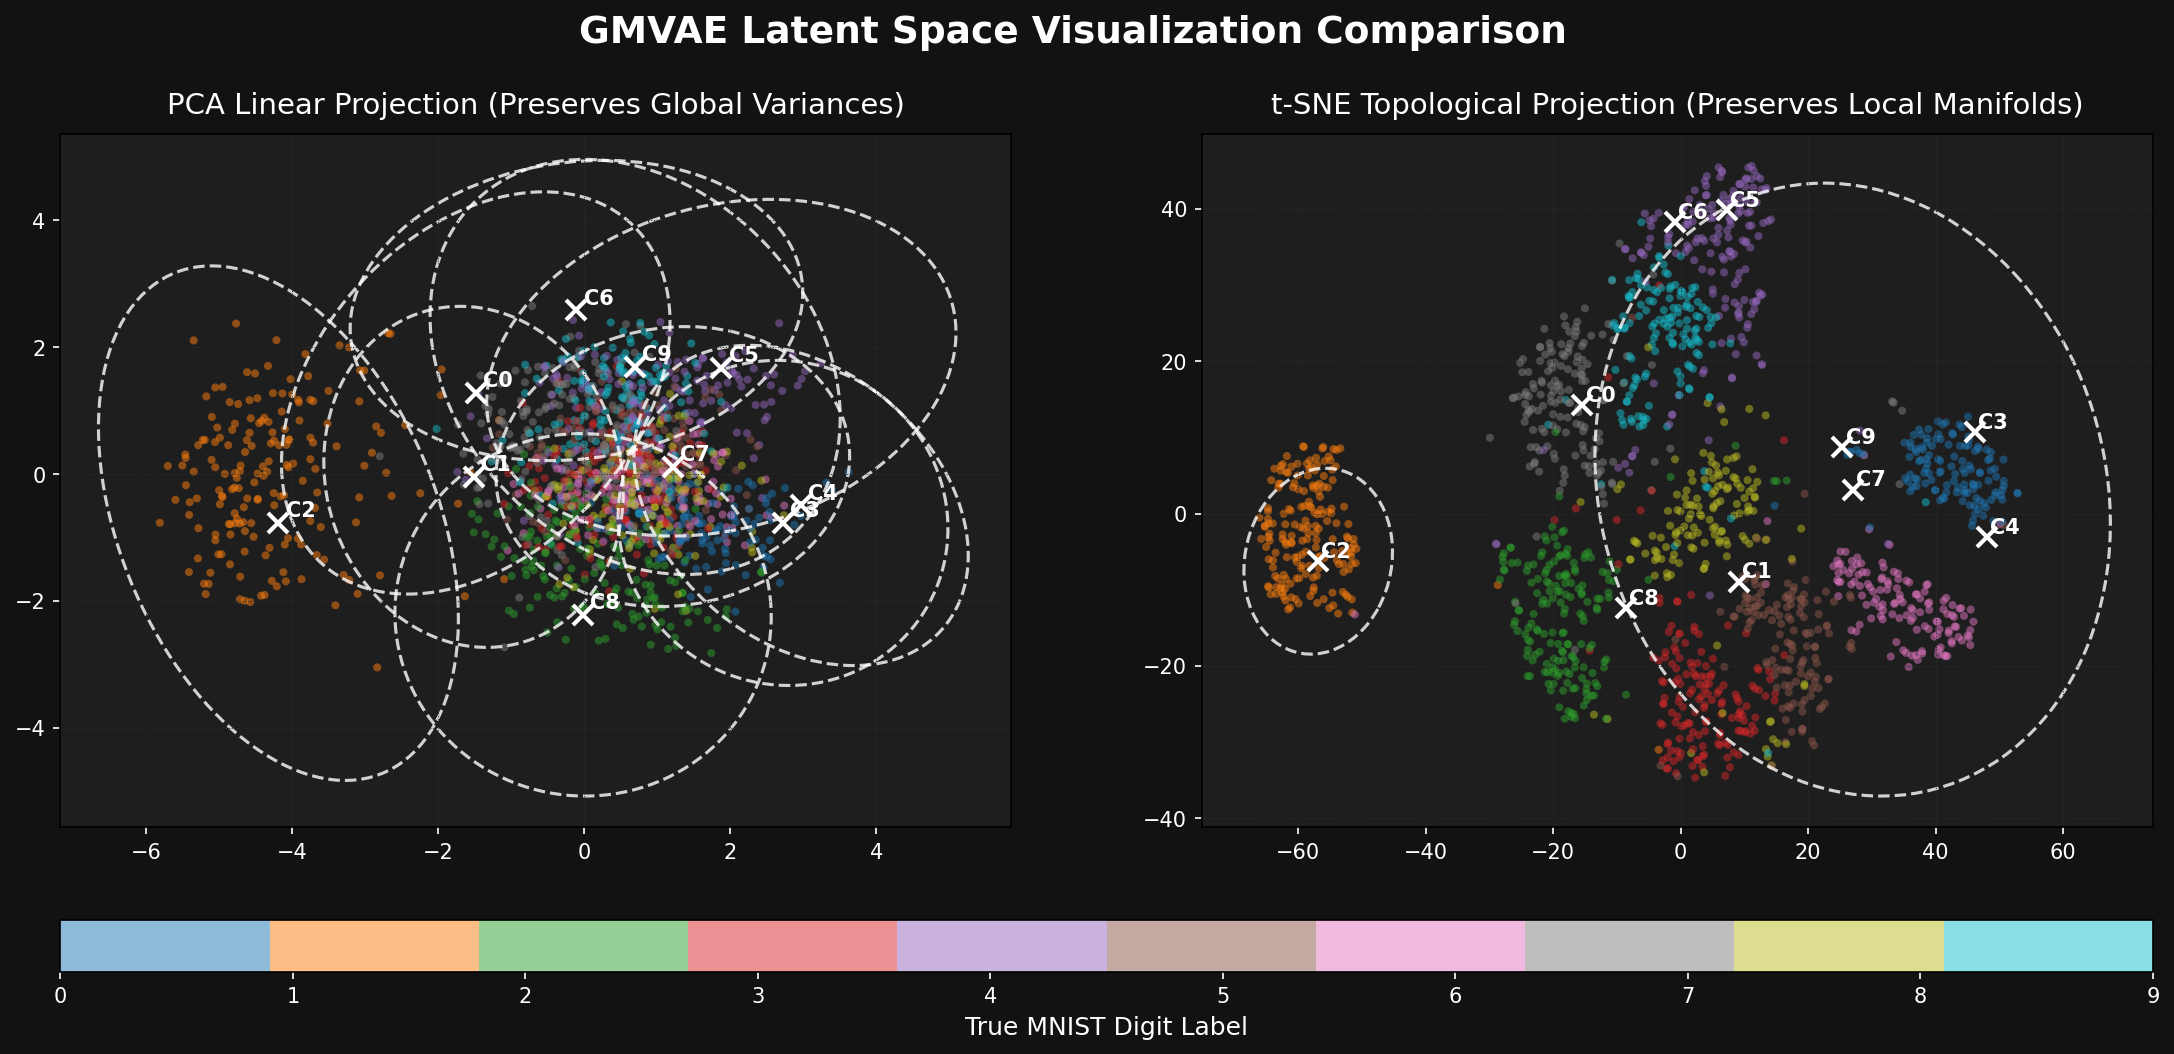
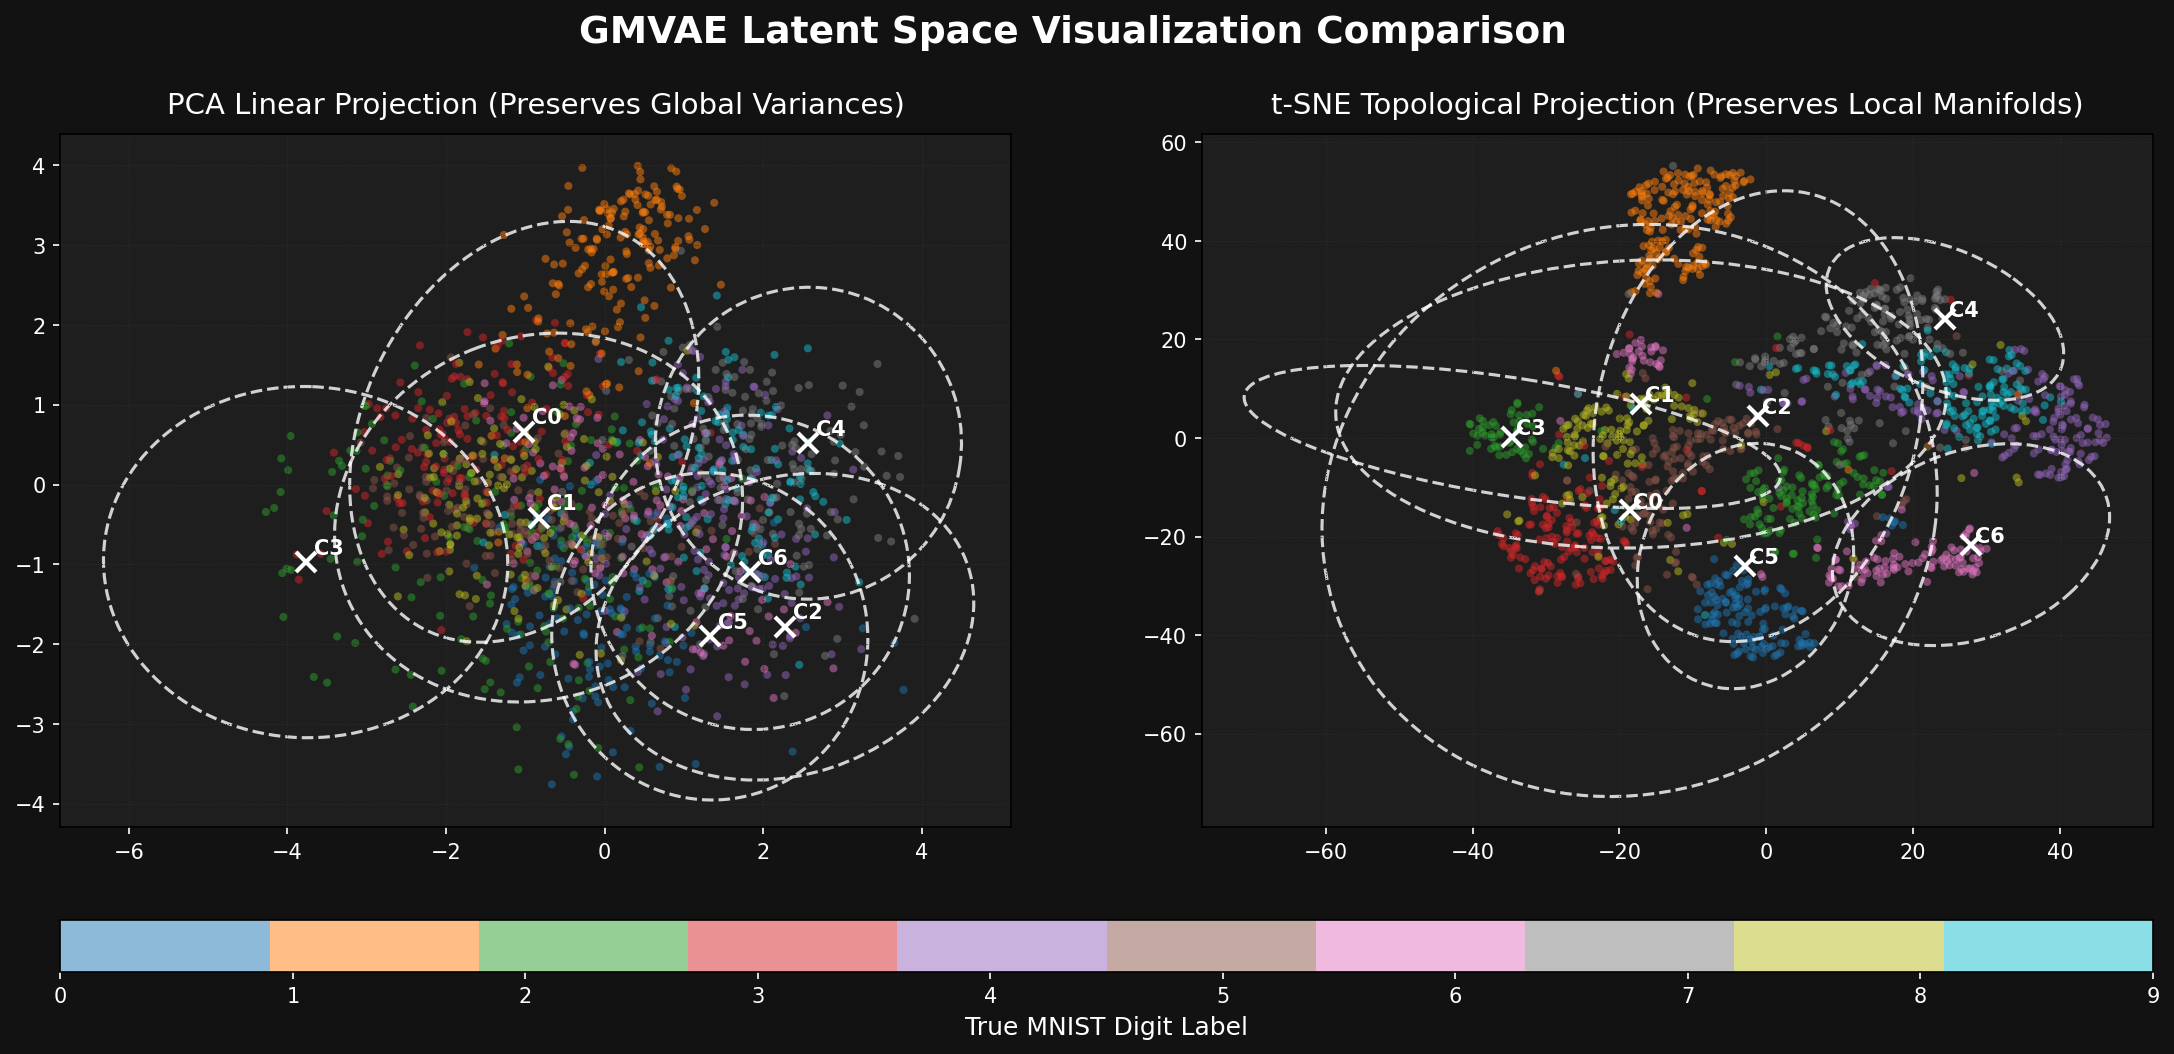
fix: adjust GMM cluster slicing in t-SNE plot to render all 10 ellipses

diff --git a/visualize_tsne.py b/visualize_tsne.py
@@ -50,7 +50,7 @@ def main():
     # Encode test data
     with torch.no_grad():
         recon_x, z, q_mean, q_logvar, q_y, _, _, _, _ = model(x)
-        predicted_clusters = torch.argmax(q_y, dim=1).cpu().numpy()
+        predicted_clusters = torch.argmax(q_y[:, :model.prior.K], dim=1).cpu().numpy()
         
     z_np = z.cpu().numpy()
     y_np = y.numpy()
